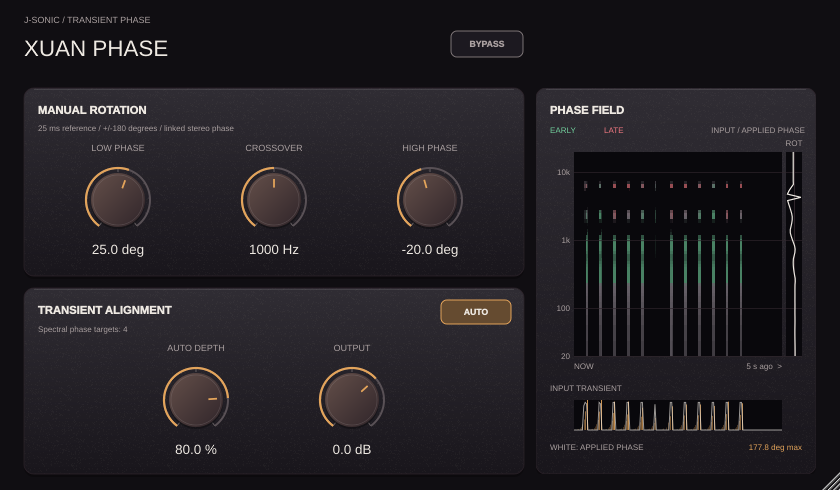
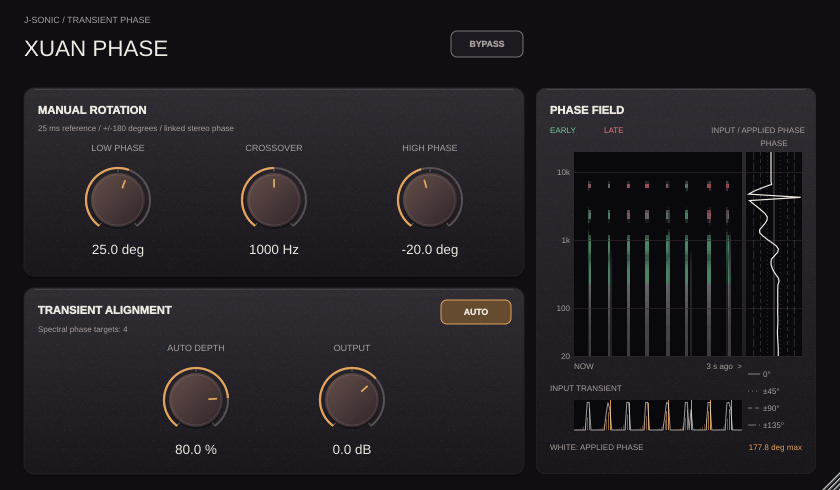
Resize Xuan history to three seconds and expand labeled phase display

Changed region(s): [[0.681, 0.2755, 0.9595, 0.7653], [0.681, 0.7959, 0.9286, 0.8878]]

diff --git a/projects/XuanPhase/Source/PhaseMeter.cpp b/projects/XuanPhase/Source/PhaseMeter.cpp
@@ -6,7 +6,7 @@ const auto early = juce::Colour (0xff72ce9c), late = juce::Colour (0xfff07880);
 }
 XuanPhaseMeter::XuanPhaseMeter (XuanPhaseProcessor& p) : processor (p)
 {
-    setTooltip ("Shows input transients moving left to right, with early bands green, late bands red, and applied phase in white.");
+    setTooltip ("Shows three seconds of input transients moving left to right, with early bands green, late bands red, and applied phase in white against degree guides.");
     lastColumn = lastInput = juce::Time::getMillisecondCounterHiRes();
 }
 XuanPhaseMeter::~XuanPhaseMeter() { stopTimer(); processor.setMeterVisible (false); }
@@ -70,8 +70,8 @@ void XuanPhaseMeter::paint (juce::Graphics& g)
     g.setFont (juce::FontOptions (9));
     g.setColour (early); g.drawText ("EARLY", 14, 34, 50, 16, juce::Justification::centredLeft);
     g.setColour (late); g.drawText ("LATE", 68, 34, 50, 16, juce::Justification::centredLeft);
-    g.setColour (secondary); g.drawText ("INPUT / APPLIED PHASE", 124, 34, 145, 16, juce::Justification::centredRight);
-    const juce::Rectangle<float> plot {38, 64, 208, 204}, phase {250, 64, 16, 204};
+    g.setColour (secondary); g.drawText ("INPUT / APPLIED PHASE", 114, 34, 155, 16, juce::Justification::centredRight);
+    const juce::Rectangle<float> plot {38, 64, 168, 204}, phase {210, 64, 56, 204};
     g.setColour (inset); g.fillRect (plot); g.fillRect (phase);
     g.setImageResamplingQuality (juce::Graphics::lowResamplingQuality);
     g.drawImage (history, plot);
@@ -84,22 +84,50 @@ void XuanPhaseMeter::paint (juce::Graphics& g)
         g.setColour (grid.withAlpha (.65f)); g.drawHorizontalLine (juce::roundToInt (y), plot.getX(), phase.getRight());
         g.setColour (secondary); g.drawText (f >= 1000 ? juce::String (f/1000, 0)+"k" : juce::String (f, 0), 4, juce::roundToInt (y)-6, 30, 12, juce::Justification::centredRight);
     }
-    g.setColour (secondary); g.drawText ("ROT", 248, 48, 20, 14, juce::Justification::centred);
-    g.setColour (grid); g.drawVerticalLine (juce::roundToInt (phase.getCentreX()), phase.getY(), phase.getBottom());
+    g.setColour (secondary); g.drawText ("PHASE", 210, 48, 56, 14, juce::Justification::centred);
+    const auto phaseX = [&] (float degrees) { return phase.getCentreX()+degrees/180*(phase.getWidth()*.5f-1); };
+    // A four-row key keeps degree labels legible in the 56 px track; paired
+    // positive/negative guides share a dash pattern and the same +/- label.
+    const auto guide = [&] (juce::Line<float> line, int index)
+    {
+        if (index == 0) g.drawLine (line, .8f);
+        else
+        {
+            const float dashes[] {static_cast<float> (index == 1 ? 1 : index == 2 ? 4 : 8), 3};
+            g.drawDashedLine (line, dashes, 2, .7f);
+        }
+    };
+    g.setFont (juce::FontOptions (9));
+    for (int index = 0; index < 4; ++index)
+    {
+        const auto degrees = 45*index;
+        g.setColour (secondary.withAlpha (index == 0 ? .65f : .35f));
+        for (int sign : {-1, 1})
+        {
+            if (index == 0 && sign == -1) continue;
+            const auto x = phaseX (static_cast<float> (sign*degrees));
+            guide ({x, phase.getY(), x, phase.getBottom()}, index);
+        }
+        const auto y = 280.f+17*index;
+        g.setColour (secondary); guide ({212, y+6, 224, y+6}, index);
+        const auto text = (index == 0 ? juce::String ("0") : juce::String::fromUTF8 ("±")+juce::String (degrees))
+                        +juce::String::fromUTF8 ("°");
+        g.drawText (text, 227, juce::roundToInt (y), 39, 13, juce::Justification::centredLeft);
+    }
     juce::Path response; float maximum = 0;
     for (int row = 0; row < xuan::meterBins; ++row)
     {
         const auto angle = std::atan2 (rotation[static_cast<size_t> (xuan::meterBins+row)], rotation[static_cast<size_t> (row)]);
-        const auto x = phase.getCentreX()+angle/juce::MathConstants<float>::pi*7;
+        const auto x = phaseX (angle*180/juce::MathConstants<float>::pi);
         const auto y = phase.getBottom()-static_cast<float> (row)/(xuan::meterBins-1)*phase.getHeight();
         if (row == 0) response.startNewSubPath (x, y); else response.lineTo (x, y);
         maximum = std::max (maximum, std::abs (angle)*180/juce::MathConstants<float>::pi);
     }
     g.setColour (foreground); g.strokePath (response, juce::PathStrokeType (1.2f));
     g.setColour (secondary); g.drawText ("NOW", 38, 271, 60, 15, juce::Justification::centredLeft);
-    g.drawText ("5 s ago  >", 160, 271, 86, 15, juce::Justification::centredRight);
-    g.drawText ("INPUT TRANSIENT", 14, 292, 250, 16, juce::Justification::centredLeft);
-    const juce::Rectangle<float> envelope {38, 312, 208, 30};
+    g.drawText ("3 s ago  >", 124, 271, 82, 15, juce::Justification::centredRight);
+    g.drawText ("INPUT TRANSIENT", 14, 292, 192, 16, juce::Justification::centredLeft);
+    const juce::Rectangle<float> envelope {38, 312, 168, 30};
     g.setColour (inset); g.fillRect (envelope);
     juce::Path trace;
     for (int col = 0; col < columns; ++col)

diff --git a/projects/XuanPhase/Source/PhaseMeter.h b/projects/XuanPhase/Source/PhaseMeter.h
@@ -2,7 +2,7 @@
 #include "PluginProcessor.h"
 #include "../../StagePluginStyle.h"
 
-// A five-second input spectrogram: newest at left, older data moving right.
+// A three-second input spectrogram: newest at left, older data moving right.
 // Colour describes observed arrival error; the separate white curve is the
 // measured complex response of the kernels actually used by the audio path.
 class XuanPhaseMeter final : public juce::Component,
@@ -20,7 +20,7 @@ public:
     const xuan::RotationFrame& currentRotation() const noexcept { return rotation; }
     static juce::Colour timingColour (float milliseconds, float energy) noexcept;
 private:
-    static constexpr int columns = 150;
+    static constexpr int columns = 90;
     void timerCallback() override;
     void append (const xuan::SpectrumFrame&);
     XuanPhaseProcessor& processor;

diff --git a/projects/XuanPhase/Tests/generate_report.py b/projects/XuanPhase/Tests/generate_report.py
@@ -145,7 +145,9 @@ sample rate).
 
 The native editor test streams repeated dispersed hits through the real processor
 and worker, observes transient events and both signed timing directions, and
-checks that non-empty image columns move from left to right. Green indicates an
+checks that non-empty image columns move from left to right across the
+three-second history. The history is 168 px wide beside a 56 px applied-phase
+track, with styled guides and a key for 0°, ±45°, ±90°, and ±135°. Green indicates an
 early input band and red a late input band. The white curve uses the measured
 complex FIR response: tests compare it with an independent DFT, ensure queued
 responses do not appear before audio applies them, verify updates after handoff,

diff --git a/projects/XuanPhase/README.md b/projects/XuanPhase/README.md
@@ -62,7 +62,7 @@ changes are smoothed over 20 ms. Auto analysis is dormant when Off.
 
 ## Phase Field meter
 
-The side panel shows five seconds of input spectrogram history on a logarithmic
+The side panel shows three seconds of input spectrogram history on a logarithmic
 frequency axis. **New data enters at the left and moves right** toward older
 history. Brighter pixels mean more input energy; **green** marks frequency bands
 arriving before the detected transient anchor, and **red** marks those arriving
@@ -71,12 +71,14 @@ Timing colors interpolate between adjacent detected bands; spectral energy
 remains unchanged, so genuine gaps in the input still appear dark.
 A small display hold makes short onsets visible without changing the audio detector.
 
-The narrow **white curve** at the right shows applied rotation relative to the
-25 ms reference, from −180° to +180° across its track. It is measured from the
+The **white curve** in the 56 px track at the right shows applied rotation
+relative to the 25 ms reference, from −180° to +180° across its track. It is measured from the
 active FIR, including manual rotation, Auto Depth, response crossfades, and bypass;
-it does not jump ahead to an unapplied worker target. The readout reports the
-largest absolute rotation. The lower strip shows input peak activity in white
-and detected transient activity in amber.
+it does not jump ahead to an unapplied worker target. Guides mark 0°, ±45°,
+±90°, and ±135°, with matching line styles in the key below the track; positive rotation is right of center and negative is left.
+The history is 168 px wide, and the readout reports the largest absolute
+rotation. The lower strip shows input peak activity in white and detected
+transient activity in amber.
 
 The meter shares the background spectral analysis. Fixed-size atomic snapshots
 transfer input and applied-response data without GUI locks in the audio callback.

diff --git a/projects/XuanPhase/Tests/Reports/REPORT.md b/projects/XuanPhase/Tests/Reports/REPORT.md
@@ -85,7 +85,9 @@ sample rate).
 
 The native editor test streams repeated dispersed hits through the real processor
 and worker, observes transient events and both signed timing directions, and
-checks that non-empty image columns move from left to right. Green indicates an
+checks that non-empty image columns move from left to right across the
+three-second history. The history is 168 px wide beside a 56 px applied-phase
+track, with styled guides and a key for 0°, ±45°, ±90°, and ±135°. Green indicates an
 early input band and red a late input band. The white curve uses the measured
 complex FIR response: tests compare it with an independent DFT, ensure queued
 responses do not appear before audio applies them, verify updates after handoff,

diff --git a/projects/XuanPhase/TOOLTIPS.md b/projects/XuanPhase/TOOLTIPS.md
@@ -9,4 +9,4 @@
 | Auto Depth | Scales the transient-guided phase correction without changing the manual rotations. |
 | Output | Adjusts the output level after manual and automatic phase rotation. |
 | Bypass | Bypasses phase processing while preserving the fixed 25 ms latency. |
-| Phase Field | Shows input transients moving left to right, with early bands green, late bands red, and applied phase in white. |
+| Phase Field | Shows three seconds of input transients moving left to right, with early bands green, late bands red, and applied phase in white against degree guides. |
